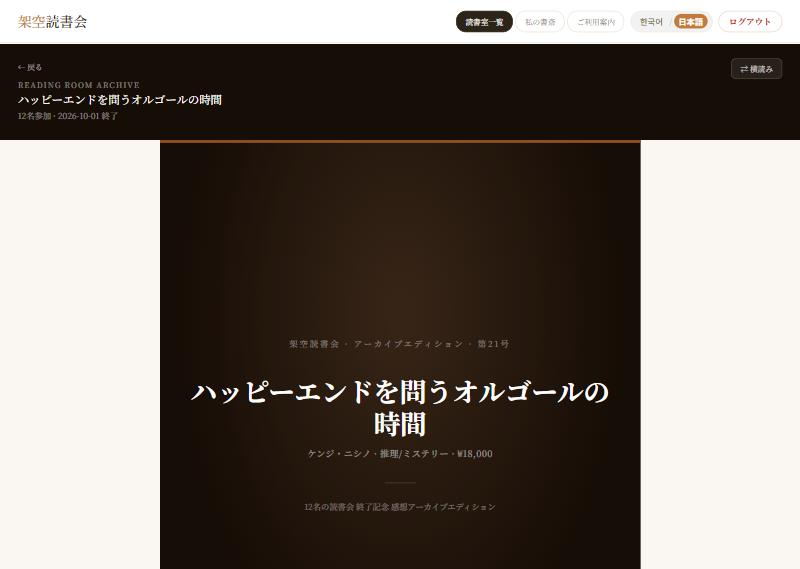
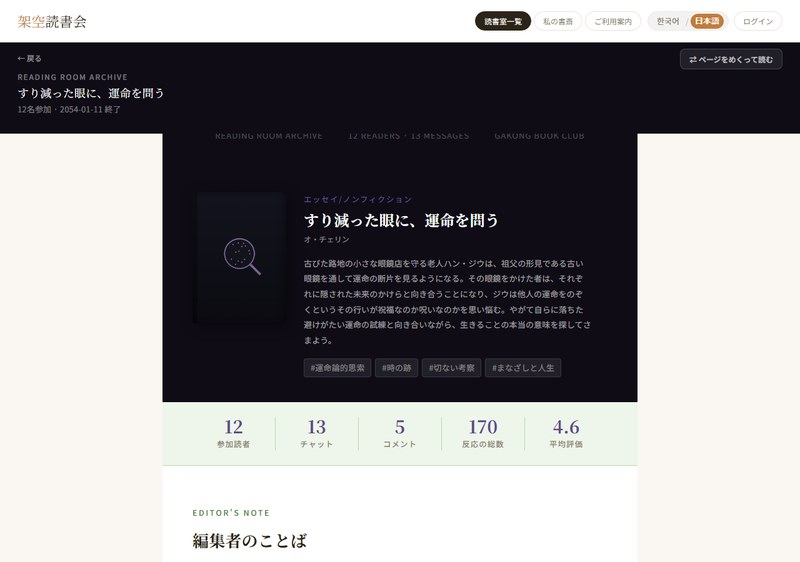
Fix: 아카이브 종료일을 서버 계산값으로 표시 (화면 쪽 재계산이 2054년을 만들던 문제)

diff --git a/static/js/books.js b/static/js/books.js
@@ -4240,7 +4240,9 @@ function adaptDbBookToFrontend(dbBook) {
         pageCount: dbBook.page_count || 300,
         deadlineDays: deadlineVal,
         archived: dbBook.is_archived || false,
-        archivedDate: dbBook.created_at ? new Date(new Date(dbBook.created_at).getTime() + deadlineVal * 24 * 60 * 60 * 1000).toISOString().split('T')[0] : t('status_closed'),
+        // 서버가 계산한 종료일을 우선 쓴다. 여기서 다시 계산하면 수동으로 닫은 상시 방이
+        // '2054-01-11 終了'처럼 수십 년 뒤 날짜로 보인다.
+        archivedDate: dbBook.end_date || (dbBook.created_at ? new Date(new Date(dbBook.created_at).getTime() + deadlineVal * 24 * 60 * 60 * 1000).toISOString().split('T')[0] : t('status_closed')),
         count: dbBook.participant_count !== undefined ? dbBook.participant_count : 0,
         endorsement: {
           quote: dbBook.endorsement_quote || '이 책은 독자의 상상력을 한계까지 밀어붙인다.',

diff --git a/templates/index.html b/templates/index.html
@@ -66,7 +66,7 @@
 
   <!-- ── JAVASCRIPT MODULES ── -->
   <script src="/static/js/auth.js?v=9"></script>
-  <script src="/static/js/books.js?v=59"></script>
+  <script src="/static/js/books.js?v=60"></script>
 </body>
 
 </html>
